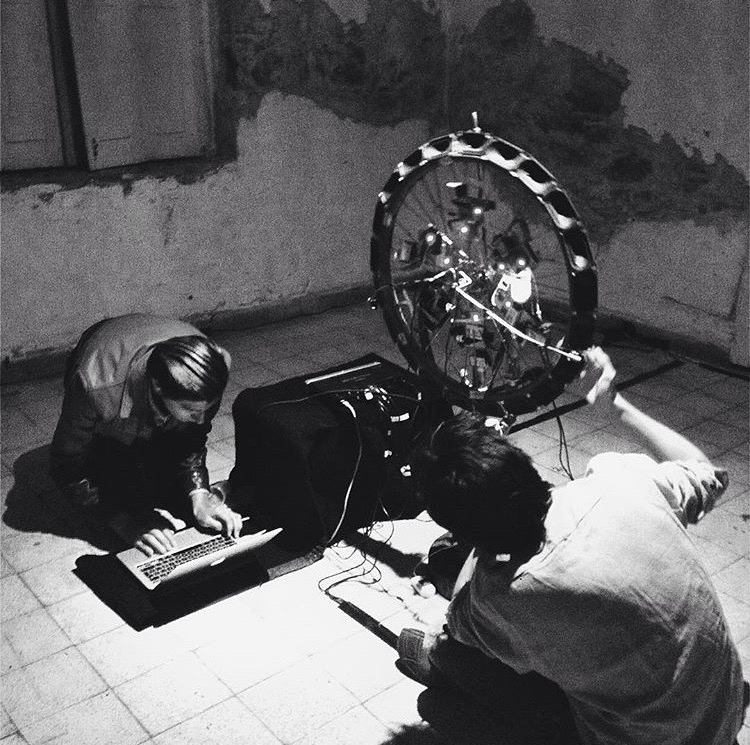
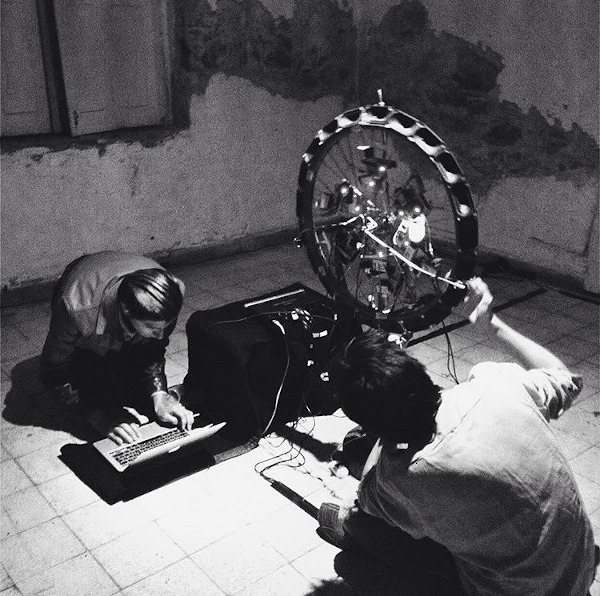
optimized residue images

diff --git a/work/residue.html b/work/residue.html
@@ -100,8 +100,8 @@
         </h2>
         <iframe
           src="https://player.vimeo.com/video/166680557"
-          width="1920"
-          height="1080"
+          width="960"
+          height="540"
           frameborder="0"
           allowfullscreen
           uk-responsive
@@ -133,7 +133,7 @@
               <li>
                 <a href="./portfolio/residue/residue_001.jpg">
                   <img
-                    src="./portfolio/residue/residue_001.jpg"
+                    src="./portfolio/residue/residue_001_800.jpg"
                     alt="residue1"
                     uk-cover
                   />
@@ -142,7 +142,7 @@
               <li>
                 <a href="./portfolio/residue/residue_002.jpg">
                   <img
-                    src="./portfolio/residue/residue_002.jpg"
+                    src="./portfolio/residue/residue_002_800.jpg"
                     alt="residue2"
                     uk-cover
                   />
@@ -151,7 +151,7 @@
               <li>
                 <a href="./portfolio/residue/residue_003.jpg">
                   <img
-                    src="./portfolio/residue/residue_003.jpg"
+                    src="./portfolio/residue/residue_003_800.jpg"
                     alt="residue3"
                     uk-cover
                   />
@@ -160,7 +160,7 @@
               <li>
                 <a href="./portfolio/residue/residue_005.jpg">
                   <img
-                    src="./portfolio/residue/residue_005.jpg"
+                    src="./portfolio/residue/residue_005_800.jpg"
                     alt="residue5"
                     uk-cover
                   />
@@ -169,7 +169,7 @@
               <li>
                 <a href="./portfolio/residue/residue_006.jpg">
                   <img
-                    src="./portfolio/residue/residue_006.jpg"
+                    src="./portfolio/residue/residue_006_800.jpg"
                     alt="residue6"
                     uk-cover
                   />
@@ -178,7 +178,7 @@
               <li>
                 <a href="./portfolio/residue/residue_007.jpg">
                   <img
-                    src="./portfolio/residue/residue_007.jpg"
+                    src="./portfolio/residue/residue_007_800.jpg"
                     alt=""
                     uk-cover
                   />
@@ -192,7 +192,7 @@
               <li uk-slideshow-item="0" class="uk-margin">
                 <a href="#"
                   ><img
-                    src="./portfolio/residue/residue_001.jpg"
+                    src="./portfolio/residue/residue_001_100.jpg"
                     width="100"
                     alt=""
                 /></a>
@@ -200,7 +200,7 @@
               <li uk-slideshow-item="1">
                 <a href="#"
                   ><img
-                    src="./portfolio/residue/residue_002.jpg"
+                    src="./portfolio/residue/residue_002_100.jpg"
                     width="100"
                     alt=""
                 /></a>
@@ -208,7 +208,7 @@
               <li uk-slideshow-item="2">
                 <a href="#"
                   ><img
-                    src="./portfolio/residue/residue_003.jpg"
+                    src="./portfolio/residue/residue_003_100.jpg"
                     width="100"
                     alt=""
                 /></a>
@@ -216,7 +216,7 @@
               <li uk-slideshow-item="3">
                 <a href="#"
                   ><img
-                    src="./portfolio/residue/residue_005.jpg"
+                    src="./portfolio/residue/residue_005_100.jpg"
                     width="100"
                     alt=""
                 /></a>
@@ -224,7 +224,7 @@
               <li uk-slideshow-item="4">
                 <a href="#"
                   ><img
-                    src="./portfolio/residue/residue_006.jpg"
+                    src="./portfolio/residue/residue_006_100.jpg"
                     width="100"
                     alt=""
                 /></a>
@@ -232,7 +232,7 @@
               <li uk-slideshow-item="5">
                 <a href="#"
                   ><img
-                    src="./portfolio/residue/residue_007.jpg"
+                    src="./portfolio/residue/residue_007_100.jpg"
                     width="100"
                     alt=""
                 /></a>

diff --git a/work/spectrum.html b/work/spectrum.html
@@ -109,33 +109,27 @@
         <p>
           <strong>Spectrum</strong> is a sound installation that mixes a range
           of sounds from several local radio stations, generated sine tones, and
-          white noise. The sounds are emitted by 23 speakers placed around a
-          bicycle wheel and hooked up to several FM receivers. Each tuned to a
-          certain frequency, they pick up and play specific sounds of the area
-          coming from local radio stations. FM Transmitters are used to insert
-          generated sine tones coming from a Max/MSP patch. Several activations
-          of the installation were performed to rotate the wheel similar to a
-          musical instrument.
+          white noise. <br /><br />The sounds are emitted by 23 speakers placed
+          around a bicycle wheel and hooked up to several FM receivers. Each
+          tuned to a certain frequency, they pick up and play specific sounds of
+          the area coming from local radio stations. FM Transmitters are used to
+          insert generated sine tones coming from a Max/MSP patch. Several
+          activations of the installation were performed to rotate the wheel
+          similarly to a musical instrument.
         </p>
         <hr class="uk-padding-small" />
 
-        <div class="uk-text-center uk-margin" uk-lightbox="animation: slide">
-          <div class="uk-inline uk-transition-toggle" tabindex="0">
-            <a href="./portfolio/spectrum/spectrum_001.jpg">
-              <img
-                src="./portfolio/spectrum/spectrum_001.jpg"
-                width="600"
-                uk-image
-              />
-            </a>
-          </div>
-        </div>
+        <img
+          class="uk-align-center"
+          src="./portfolio/spectrum/spectrum_001.jpg"
+          width="600"
+          uk-image
+        />
 
         <p>Site: Espectro Electromagnético Sound Artist Residency</p>
         <p>
-          Materials: 23 Speakers, found bicycle wheel, audio interface with 8
-          stereo outputs, 4 FM transmitters and receivers, Mac computer running
-          Max7/MSP.
+          Materials: 23 Speakers, bicycle wheel, audio interface with 8 stereo
+          outputs, 4 FM transmitters and receivers, computer running Max7/MSP.
         </p>
 
         <hr class="uk-padding-small" />
